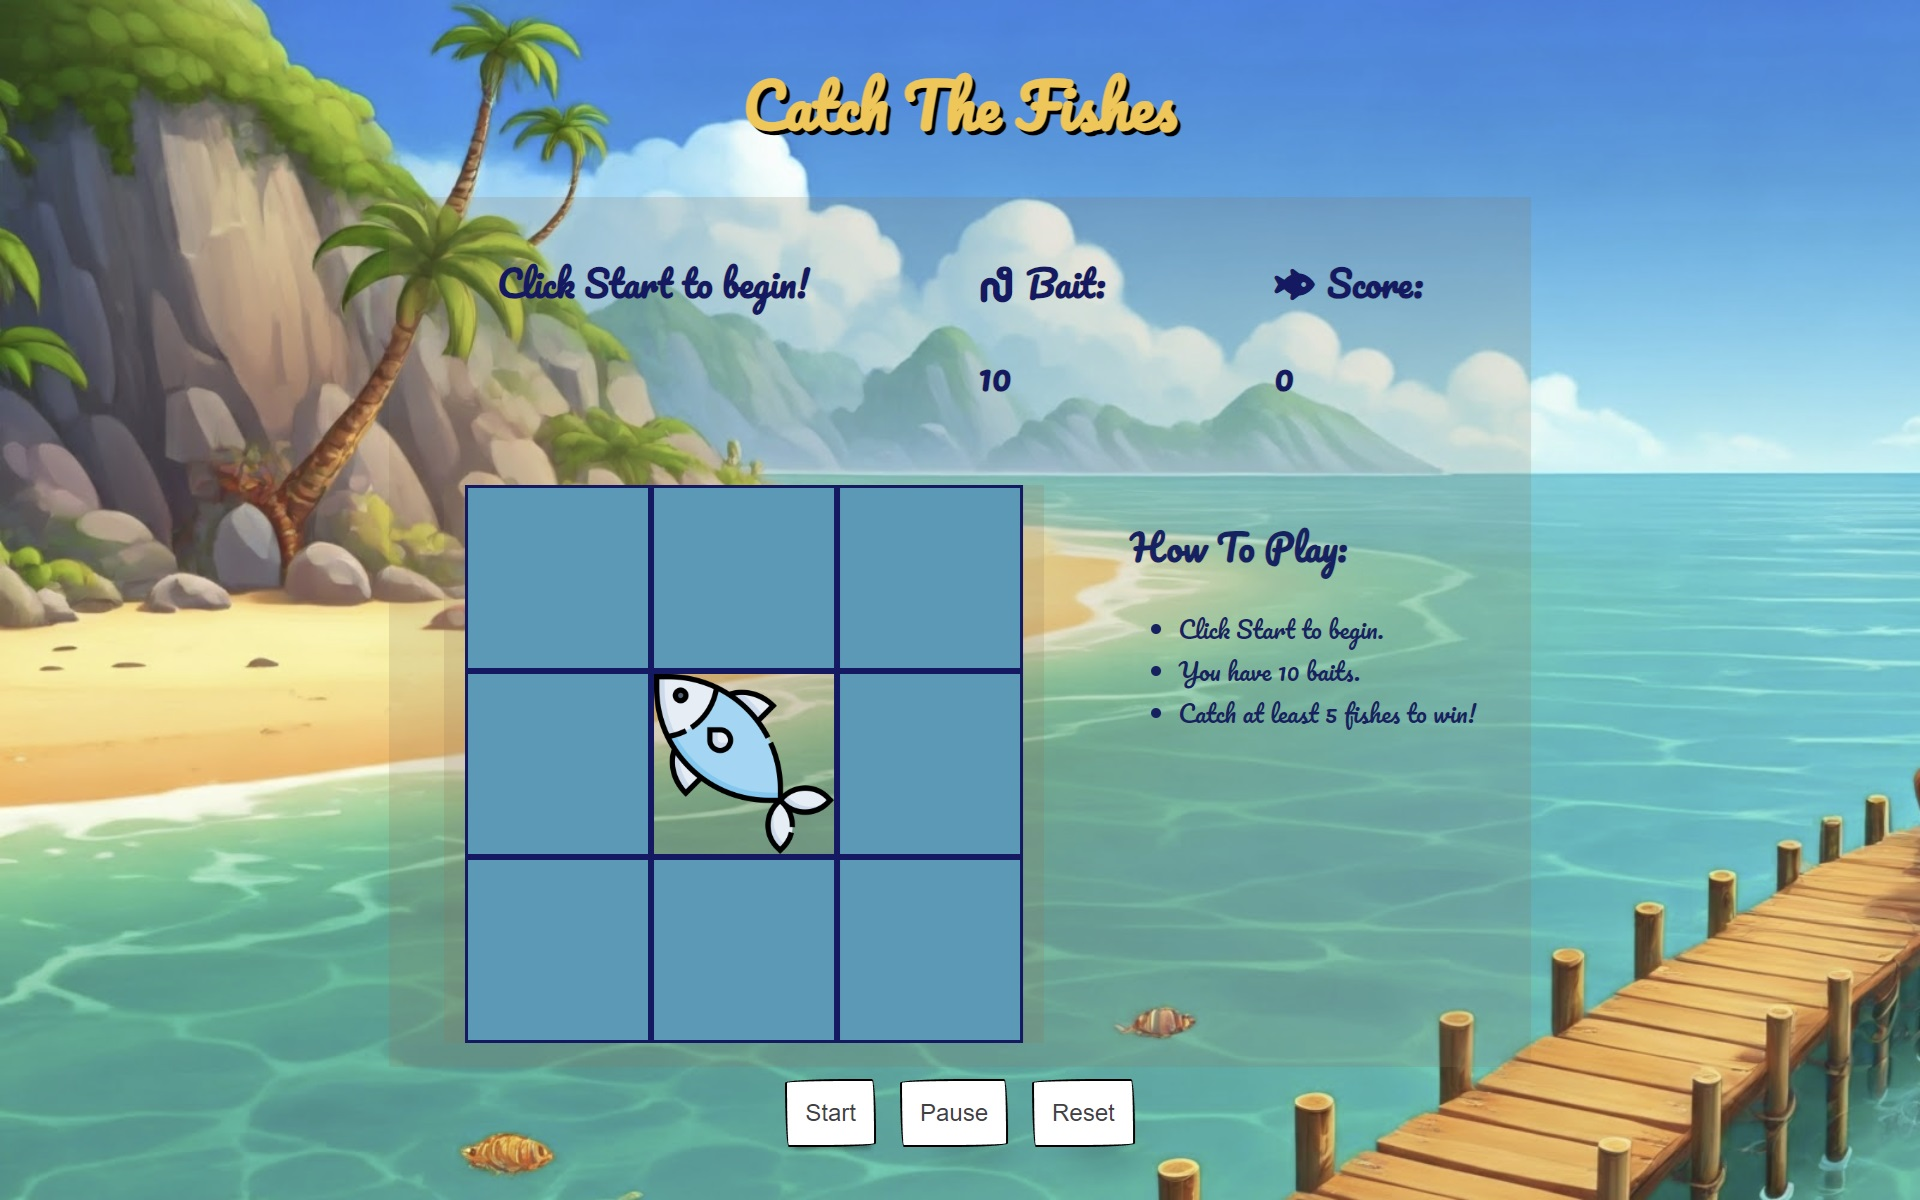
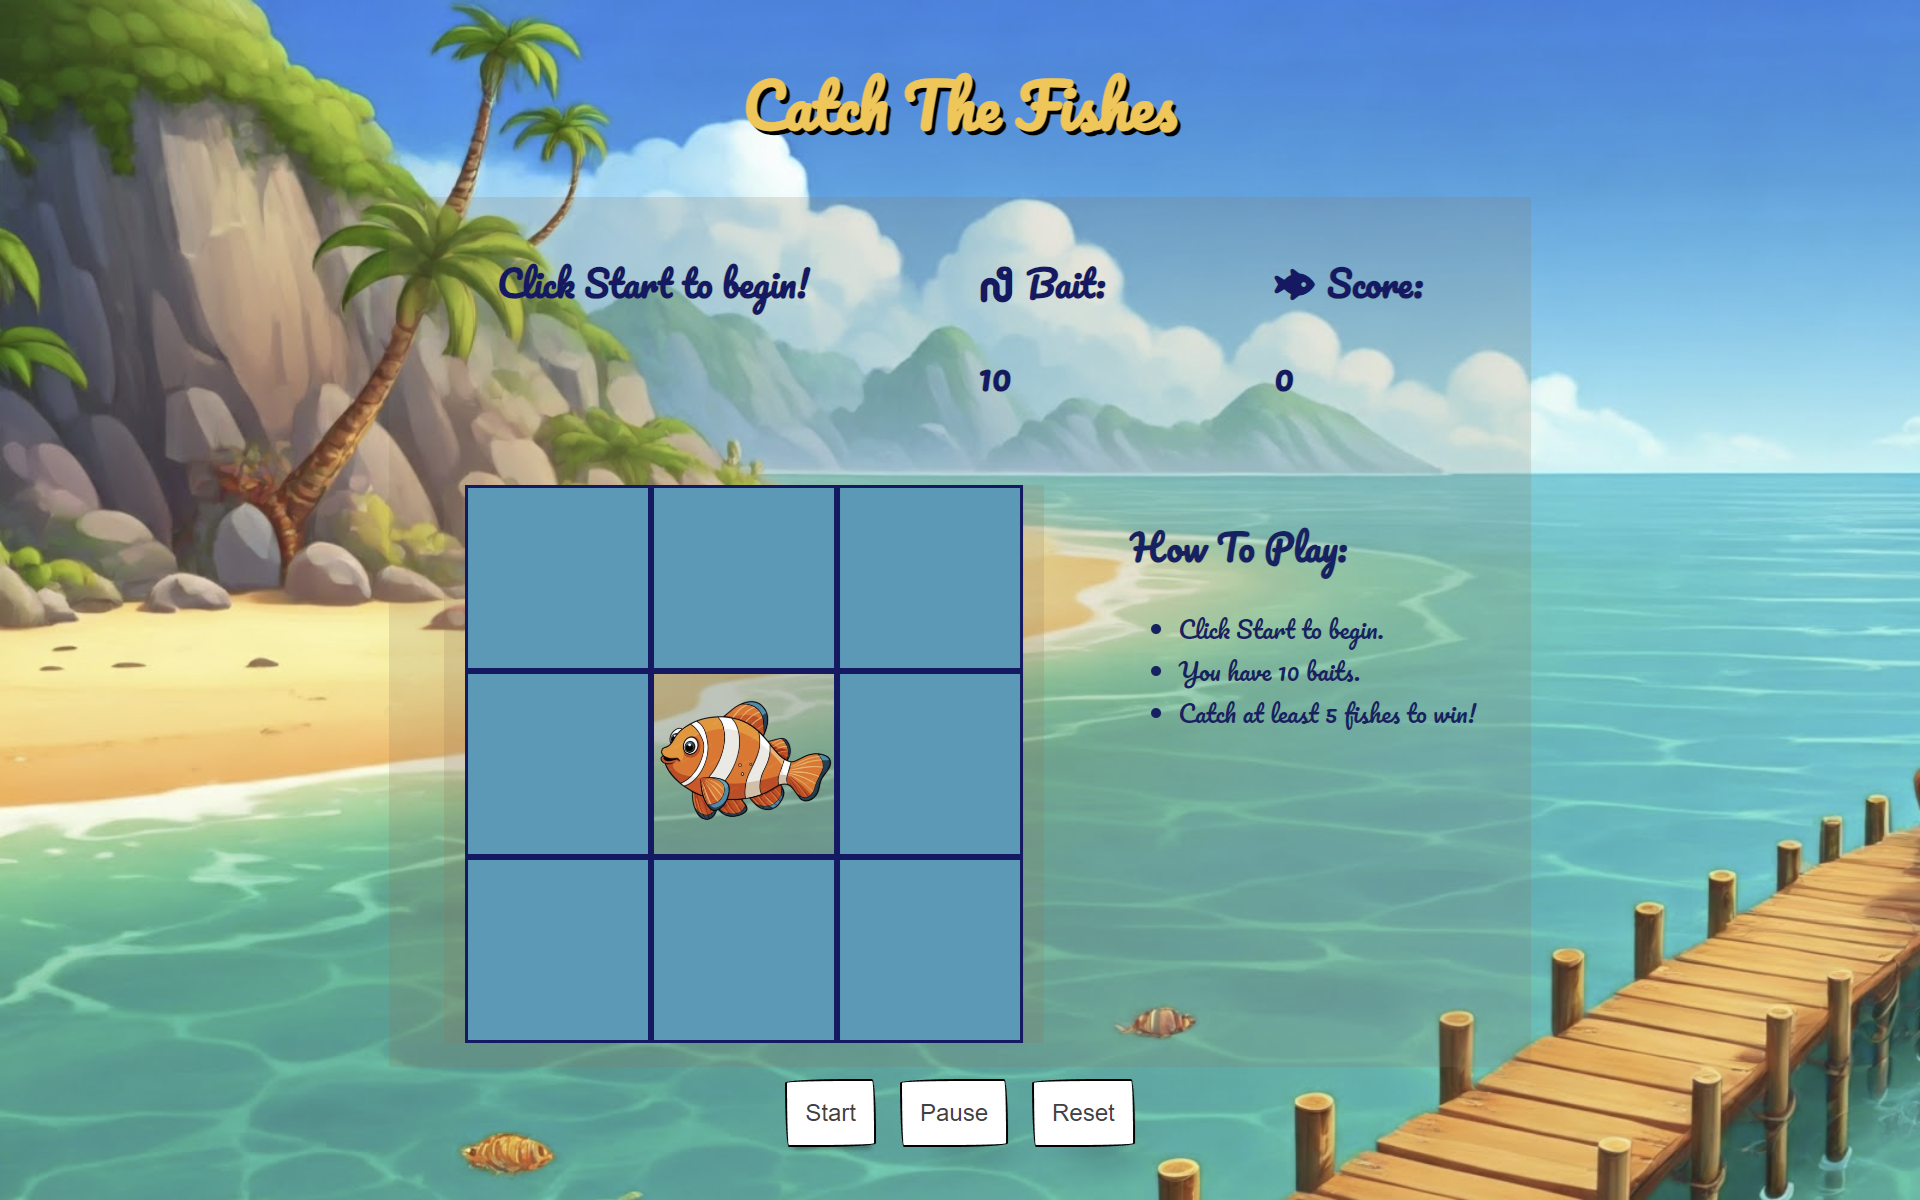
Change fish image and add fishing rod cursor

diff --git a/style.css b/style.css
@@ -135,6 +135,10 @@ body {
   border: 3px solid rgb(7, 23, 101);
 }
 
+.holes:hover {
+  cursor: url("fishing-rod.png");
+}
+
 .fish {
   background: url("clownfish.png") no-repeat;
   content: "fish-image";
@@ -142,4 +146,5 @@ body {
   display: block;
   position: relative;
   transition: all 0.5s linear;
+  cursor: url("fishing-rod.png") 16 16, auto;
 }

diff --git a/README.md b/README.md
@@ -21,6 +21,6 @@ Further features to this game such as variety of fish species, map size and game
 Resources:
 [CSS Buttons](https://getcssscan.com/css-buttons-examples) | [Google Fonts](https://fonts.google.com/selection/embed) |
 [Whack-A-Mole](https://www.codewithfaraz.com/content/391/create-a-whack-a-mole-game-with-html-css-and-javascript-step-by-step-guide) |
-[Fish Image](https://www.freepik.com/) |
+[Fish Image & Rod Cursor ](https://www.freepik.com/) |
 [Image Generator](https://gemini.google.com/app) |
 [Game Inspiration](https://www.calculators.org/games/whack-em-all/) | [Icons](https://fontawesome.com/)
